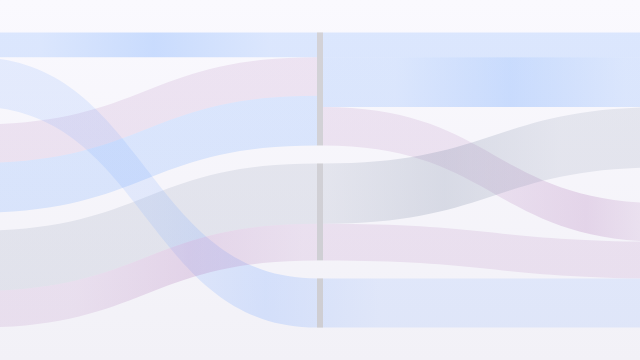
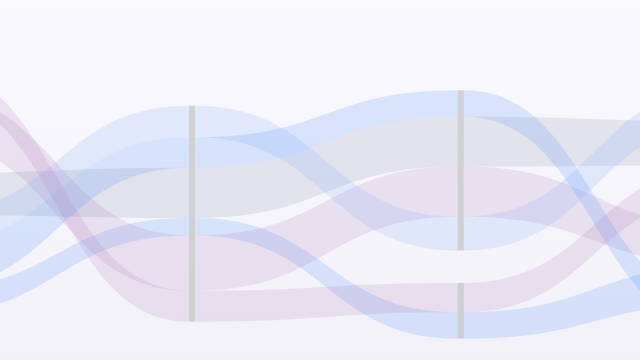
sankey-flows as an endless Sankey moving right, flows weaving between columns; heat-mosaic pointer warms cells
Owner review: the Sankey picture stood still and its cell outline on the
mosaic said nothing. Sankey flows is now an endless diagram seen through a
window: columns of 2-4 nodes come in from the left, each column orders its
flows anew so they cross, the bundle rises and falls. The mosaic's pointer
warms the cells like a click heat map, the trail cools in a few seconds and
a click gives a burst.

diff --git a/effects/sankey-flows/index.js b/effects/sankey-flows/index.js
@@ -1,5 +1,5 @@
-// Sankey flows (simai.effect 1.1.0; schemes light and dark): wide soft ribbons flow from left to
-// right through a middle column, splitting and merging as on a Sankey diagram.
+// Sankey flows (simai.effect 1.1.0; schemes light and dark): an endless Sankey diagram seen through
+// a window: columns of nodes come in from the left and the ribbons split and merge between them.
 //
 // The lifecycle is the catalogue template's: one canvas in the host, devicePixelRatio capped at 2,
 // a seeded scene (the same picture on every mount at the defaults), one still frame for reduced
@@ -46,68 +46,79 @@ function readTones(host, scheme) {
   return tones;
 }
 
+// The endless chart: columns of nodes every `gap` pixels of paper. Which node a flow passes at a
+// column, how many nodes a column has and how wide a flow is there are all read from the column's
+// index, so the chart goes on forever and is the same on every mount.
+const nodesAt = (c) => 2 + Math.floor(hash2(c, 5) * 2.999);
+const nodeOf = (p, c) => Math.floor(hash2(p * 13 + 1, c) * nodesAt(c) * 0.999);
+const widthOf = (p, c) => 0.35 + noise2(c * 0.45 + p * 3.7, p * 1.3);
+
+// One column laid out: node boxes and, for every flow, its slot on the incoming and outgoing side.
+function column(c, flows, h) {
+  const n = nodesAt(c);
+  const value = Array.from({length: flows}, (_, p) => widthOf(p, c));
+  const node = Array.from({length: flows}, (_, p) => nodeOf(p, c));
+  const gapY = h * 0.09;
+  const scale = (h * 0.6) / value.reduce((a, b) => a + b, 0);
+  // The whole bundle rises and falls a little from column to column.
+  const lift = (noise2(c * 0.6, 11) - 0.5) * h * 0.22;
+  const sizes = Array.from({length: n}, (_, k) => value.reduce((sum, v, p) => sum + (node[p] === k ? v * scale : 0), 0));
+  const used = sizes.filter((size) => size > 0).length;
+  let y = (h - sizes.reduce((a, b) => a + b, 0) - gapY * (used - 1)) / 2 + lift;
+  const boxes = [];
+  const inSlot = [], outSlot = [];
+  for (let k = 0; k < n; k += 1) {
+    if (!sizes[k]) continue;
+    boxes.push([y, sizes[k]]);
+    const members = node.map((m, p) => p).filter((p) => node[p] === k);
+    // Inside a node the flows take an order of their own at every column, so they cross and weave
+    // between the columns instead of running side by side.
+    const order = [...members].sort((a, b) => hash2(a, c * 3 + 7) - hash2(b, c * 3 + 7));
+    for (const slots of [inSlot, outSlot]) {
+      let at = y;
+      for (const p of order) {
+        slots[p] = [at, at + value[p] * scale];
+        at += value[p] * scale;
+      }
+    }
+    y += sizes[k] + gapY;
+  }
+  return {boxes, inSlot, outSlot};
+}
+
 const SCENE = {
-  home: 'light', seed: 641, reseed: ['flows'],
+  home: 'light', seed: 641,
   tones: (read, scheme) => scheme === 'light'
     ? {ground: read('--sf-neutral-98', '#faf9fe'), low: read('--sf-neutral-95', '#f0f0f6'), node: read('--sf-neutral-40', '#5d5e66'),
       ribbons: [read('--sf-primary-60', '#4a8cf0'), read('--sf-tertiary-60', '#a4869f'), read('--sf-secondary-60', '#8990a5'), read('--sf-primary-70', '#7eabff')]}
     : {ground: read('--sf-neutral-5', '#111318'), low: read('--sf-neutral-10', '#1a1b20'), node: read('--sf-neutral-70', '#abacb4'),
       ribbons: [read('--sf-primary-50', '#2a74de'), read('--sf-tertiary-50', '#8a6d8f'), read('--sf-secondary-50', '#6f778b'), read('--sf-primary-40', '#005bbe')]},
-  setup(env, random) {
-    const n = clamp(Math.round(env.values.flows ?? 6), 3, 9);
-    // Every flow is a path: a node on the left, one in the middle, one on the right.
-    const counts = [3, n > 5 ? 3 : 2, 3];
-    const paths = Array.from({length: n}, (_, p) => ({
-      nodes: [p % counts[0], Math.floor(random() * counts[1]), Math.floor(random() * counts[2])],
-      seed: random() * 40, colour: p, phase: random(),
-    }));
-    return {counts, paths, shapes: []};
-  },
+  setup() { return {}; },
   draw(env, t) {
-    const {ctx, w, h, tones, state, values, scheme, pointer} = env;
+    const {ctx, w, h, tones, values, scheme, pointer} = env;
     const k = values.intensity / 100;
     const light = scheme === 'light';
+    const flows = clamp(Math.round(values.flows ?? 6), 3, 9);
     const g = ctx.createLinearGradient(0, 0, 0, h);
     g.addColorStop(0, rgba(tones.ground));
     g.addColorStop(1, rgba(mixc(tones.ground, tones.low, 0.8)));
     ctx.fillStyle = g;
     ctx.fillRect(0, 0, w, h);
-    const {counts, paths} = state;
-    const value = paths.map((path) => 0.35 + noise2(t * 0.06 + path.seed, path.seed));
-    const xs = [-w * 0.04, w * 0.5, w * 1.04];
-    // Stack the nodes of each column; inside a node the flows keep the order of their other end.
-    const gapY = h * 0.05;
-    const scale = (h * 0.72) / Math.max(1e-6, value.reduce((a, b) => a + b, 0));
-    const slots = paths.map(() => [[0, 0], [0, 0], [0, 0], [0, 0]]);
-    for (let c = 0; c < 3; c += 1) {
-      const sizes = Array.from({length: counts[c]}, (_, node) => paths.reduce((sum, path, p) => sum + (path.nodes[c] === node ? value[p] * scale : 0), 0));
-      const total = sizes.reduce((a, b) => a + b, 0) + gapY * (counts[c] - 1);
-      let y = (h - total) / 2;
-      for (let node = 0; node < counts[c]; node += 1) {
-        const members = paths.map((path, p) => p).filter((p) => paths[p].nodes[c] === node);
-        // Incoming side sorted by the left end, outgoing side by the right end.
-        for (const side of c === 1 ? [0, 1] : [c === 0 ? 1 : 0]) {
-          const other = side === 0 ? c - 1 : c + 1;
-          let at = y;
-          for (const p of [...members].sort((a, b) => paths[a].nodes[other] - paths[b].nodes[other] || a - b)) {
-            slots[p][c === 0 ? 0 : c === 2 ? 3 : 1 + side] = [at, at + value[p] * scale];
-            at += value[p] * scale;
-          }
-        }
-        if (c === 1 && sizes[node] > 0) {
-          ctx.fillStyle = rgba(tones.node, (light ? 0.35 : 0.4) * k);
-          ctx.fillRect(xs[1] - 3, y, 6, sizes[node]);
-        }
-        y += sizes[node] + gapY;
-      }
-    }
-    // Ribbons: two stages per path, each a band between cubic curves, lit by a slow travelling glow.
+    // The paper moves right, the way the flows run: a new column comes in from the left every seven
+    // seconds or so.
+    const gap = clamp(w * 0.42, 220, 560);
+    const offset = -t * (gap / 7);
+    const first = Math.floor(offset / gap) - 1;
+    const last = Math.ceil((offset + w) / gap) + 1;
+    const columns = new Map();
+    for (let c = first; c <= last; c += 1) columns.set(c, column(c, flows, h));
+    const xOf = (c) => c * gap - offset;
     const shapes = [];
-    paths.forEach((path, p) => {
-      for (let stage = 0; stage < 2; stage += 1) {
-        const [a0, a1] = slots[p][stage === 0 ? 0 : 2];
-        const [b0, b1] = slots[p][stage === 0 ? 1 : 3];
-        const x0 = xs[stage] + (stage === 1 ? 3 : 0), x1 = xs[stage + 1] - (stage === 0 ? 3 : 0), xm = (x0 + x1) / 2;
+    for (let c = first; c < last; c += 1) {
+      const from = columns.get(c), to = columns.get(c + 1);
+      const x0 = xOf(c) + 3, x1 = xOf(c + 1) - 3, xm = (x0 + x1) / 2;
+      for (let p = 0; p < flows; p += 1) {
+        const [a0, a1] = from.outSlot[p], [b0, b1] = to.inSlot[p];
         const shape = new Path2D();
         shape.moveTo(x0, a0);
         shape.bezierCurveTo(xm, a0, xm, b0, x1, b0);
@@ -116,22 +127,19 @@ const SCENE = {
         shape.closePath();
         shapes.push([shape, p]);
       }
-    });
+    }
+    // The flow under the pointer lights up along its whole visible path.
     let lit = -1;
-    if (pointer.on) for (const [shape, p] of shapes) if (ctx.isPointInPath(shape, pointer.x * w * (ctx.getTransform().a), pointer.y * h * (ctx.getTransform().d))) lit = p;
+    if (pointer.on) {
+      const ratio = ctx.getTransform().a;
+      for (const [shape, p] of shapes) if (ctx.isPointInPath(shape, pointer.x * w * ratio, pointer.y * h * ratio)) lit = p;
+    }
     for (const [shape, p] of shapes) {
-      const colour = tones.ribbons[paths[p].colour % tones.ribbons.length];
-      const base = (light ? 0.24 : 0.3) * k * (p === lit ? 1.9 : 1);
-      const glow = ctx.createLinearGradient(0, 0, w, 0);
-      const at = (t * 0.05 + paths[p].phase) % 1;
-      glow.addColorStop(0, rgba(colour, base));
-      glow.addColorStop(clamp(at - 0.18, 0.001, 0.997), rgba(colour, base));
-      glow.addColorStop(clamp(at, 0.002, 0.998), rgba(colour, base * 1.6));
-      glow.addColorStop(clamp(at + 0.18, 0.003, 0.999), rgba(colour, base));
-      glow.addColorStop(1, rgba(colour, base));
-      ctx.fillStyle = glow;
+      ctx.fillStyle = rgba(tones.ribbons[p % tones.ribbons.length], (light ? 0.26 : 0.32) * k * (p === lit ? 1.9 : 1));
       ctx.fill(shape);
     }
+    ctx.fillStyle = rgba(tones.node, (light ? 0.35 : 0.4) * k);
+    for (const [c, laid] of columns) for (const [y, size] of laid.boxes) ctx.fillRect(xOf(c) - 3, y, 6, size);
   },
   start: 5,
 };

diff --git a/effects/heat-mosaic/index.js b/effects/heat-mosaic/index.js
@@ -51,9 +51,11 @@ const SCENE = {
   tones: (read, scheme) => scheme === 'light'
     ? {ground: read('--sf-neutral-98', '#faf9fe'), mid: read('--sf-primary-90', '#d7e3ff'), hot: read('--sf-tertiary-80', '#ddbce0'), line: read('--sf-primary-40', '#005bbe')}
     : {ground: read('--sf-neutral-5', '#111318'), mid: read('--sf-primary-20', '#002f65'), hot: read('--sf-tertiary-30', '#573e5c'), line: read('--sf-primary-80', '#acc7ff')},
-  setup() { return {}; },
+  // The pointer's heat: one value per cell, raised near the pointer and by a click, cooling by itself.
+  setup() { return {heat: null, cols: 0, rows: 0, last: null, bursts: []}; },
+  click(env, x, y) { env.state.bursts.push([x, y]); },
   draw(env, t) {
-    const {ctx, w, h, tones, values, scheme, pointer} = env;
+    const {ctx, w, h, tones, values, scheme, pointer, state} = env;
     const k = values.intensity / 100;
     const light = scheme === 'light';
     ctx.fillStyle = rgba(tones.ground);
@@ -68,24 +70,33 @@ const SCENE = {
       return rgba(mixc(tones.ground, c, (light ? 0.95 : 0.9) * k));
     });
     const ox = (w % size) / 2 - size, oy = (h % size) / 2 - size;
+    const cols = Math.ceil((w - ox) / size), rows = Math.ceil((h - oy) / size);
+    if (!state.heat || state.cols !== cols || state.rows !== rows) Object.assign(state, {heat: new Float32Array(cols * rows), cols, rows});
+    const dt = state.last === null ? 0 : clamp(t - state.last, 0, 0.1);
+    state.last = t;
+    const warm = (px, py, radius, amount) => {
+      const c0 = (px - ox) / size - 0.5, r0 = (py - oy) / size - 0.5;
+      for (let r = Math.max(0, Math.floor(r0 - radius)); r <= Math.min(rows - 1, Math.ceil(r0 + radius)); r += 1) {
+        for (let c = Math.max(0, Math.floor(c0 - radius)); c <= Math.min(cols - 1, Math.ceil(c0 + radius)); c += 1) {
+          const d = Math.hypot(c - c0, r - r0) / radius;
+          if (d < 1) state.heat[r * cols + c] = Math.min(1, state.heat[r * cols + c] + amount * (1 - d));
+        }
+      }
+    };
+    if (dt) for (let i = 0; i < state.heat.length; i += 1) state.heat[i] *= Math.exp(-dt / 2.4);
+    if (pointer.on) warm(pointer.x * w, pointer.y * h, 2.2, dt * 6);
+    for (const [x, y] of state.bursts.splice(0)) warm(x, y, 4.5, 0.9);
     const span = size * 4.5;
-    for (let y = oy; y < h; y += size) {
-      for (let x = ox; x < w; x += size) {
+    for (let row = 0, y = oy; y < h; row += 1, y += size) {
+      for (let col = 0, x = ox; x < w; col += 1, x += size) {
         const cx = x + size / 2, cy = y + size / 2;
         // A field that drifts, with a slow wave across it.
         const field = noise2(cx / span + t * 0.05, cy / span - t * 0.02);
         const wave = 0.5 + 0.5 * Math.sin((cx * 0.7 + cy * 0.45) / (size * 3.2) - t * 0.45);
-        const v = clamp((field - 0.25) * 1.3 * 0.55 + wave * 0.45, 0, 0.999);
+        const v = clamp((field - 0.25) * 1.3 * 0.55 + wave * 0.45 + state.heat[row * cols + col] * 0.95, 0, 0.999);
         ctx.fillStyle = scale[Math.floor(v * steps)];
         ctx.fillRect(x + gap / 2, y + gap / 2, size - gap, size - gap);
       }
-    }
-    if (pointer.on) {
-      const px = pointer.x * w, py = pointer.y * h;
-      const x = ox + Math.floor((px - ox) / size) * size, y = oy + Math.floor((py - oy) / size) * size;
-      ctx.strokeStyle = rgba(tones.line, 0.75 * k);
-      ctx.lineWidth = 1.5;
-      ctx.strokeRect(x + gap / 2, y + gap / 2, size - gap, size - gap);
     }
   },
   start: 4,

diff --git a/effects/heat-mosaic/README.md b/effects/heat-mosaic/README.md
@@ -18,7 +18,7 @@ A grid of cells where a wave of stepped shades passes, as on a heat map.
 | `steps` | integer | 3–9 | `6` | Scale steps |
 | `palette` | choice | `theme`, `turquoise`, `ocean`, `violet`, `rose`, `emerald`, `sunset`, `gold`, `silver`, `custom` | `"theme"` | Palette. `theme` follows the theme colour; the others stay as they are |
 | `colour` | color | hex | `"#3b82f6"` | Colour, read only while `palette` is `custom`: the effect builds every tone from it |
-| `interactive` | boolean | | `true` | React to the pointer: the cell under the pointer gets an outline |
+| `interactive` | boolean | | `true` | React to the pointer: the pointer warms the cells like a click heat map and the trail slowly cools; a click gives a burst of heat |
 
 ## Schemes
 
